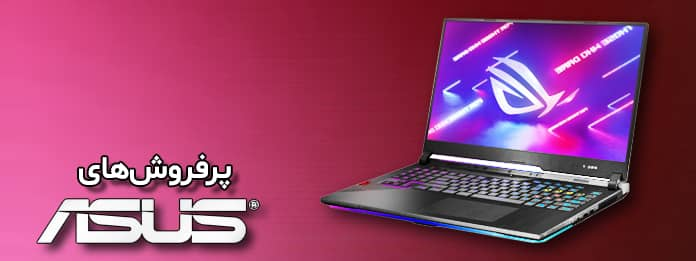
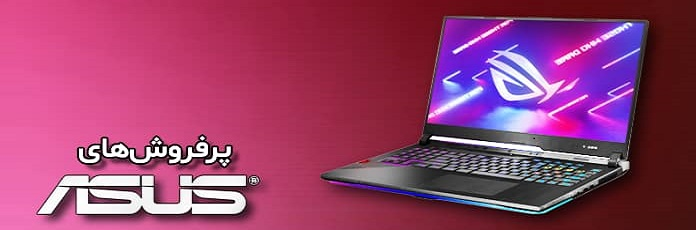
UI

diff --git a/src/components/imageSlider/ImageSlider.js b/src/components/imageSlider/ImageSlider.js
@@ -4,12 +4,14 @@ import lenovo from './../../assets/images/lenovo.jpg'
 import watch from './../../assets/images/watch.jpg'
 import mobile from './../../assets/images/mobile.jpg'
 import Carousel from 'react-bootstrap/Carousel';
+import {useStyles} from './../../styles/imageSlider/style'
 function ImageSlider() {
+  const classes=useStyles()
   return (
-    <Carousel>
+    <Carousel >
     <Carousel.Item>
       <img
-        className="d-block w-100 "
+        className={classes.image}
         src={asus}
       
         alt="First slide"
@@ -18,7 +20,7 @@ function ImageSlider() {
     </Carousel.Item>
     <Carousel.Item>
     <img
-        className="d-block w-100 "
+        className={classes.image}
       
         src={watch}
         alt="Third slide"
@@ -29,7 +31,7 @@ function ImageSlider() {
     </Carousel.Item>
     <Carousel.Item>
     <img
-        className="d-block w-100 "
+        className={classes.image}
     
         src={lenovo}
         alt="Second slide"
@@ -38,7 +40,7 @@ function ImageSlider() {
     </Carousel.Item>
     <Carousel.Item>
       <img
-        className="d-block w-100 "
+        className={classes.image}
       
         src={mobile}
         alt="Third slide"

diff --git a/src/components/category/CategoryProducts.js b/src/components/category/CategoryProducts.js
@@ -30,14 +30,14 @@ function CategoryProducts({id}) {
 
   useEffect(()=>getProducts(page),[getProducts, id, page, search])
   return (
-    <Box style={{display:'flex',flexDirection:'column'}}>
+    <Box style={{display:'flex',flexDirection:'column',alignItems:'center'}}>
     <Grid container>
       {catprdt.map(element=>{return<Grid item  md={6} xs={12} key={element.id} >
         <Card  product={element}/></Grid>})}
       
     </Grid>
      <Pagination  count={Number(Math.ceil(totalCount/4))} page={page} onChange={handleChange}  shape="circular"
-     color='secondary' variant='outlined' />
+     color='secondary' variant='outlined'  />
      </Box>
   )
 }

diff --git a/src/components/navbar/SearchBar.js b/src/components/navbar/SearchBar.js
@@ -5,14 +5,17 @@ import { styled} from '@mui/material/styles';
 import { useNavigate } from 'react-router-dom';
 const Search = styled('div')(({ theme }) => ({
     position: 'relative',
-    borderRadius:'10px',
-    backgroundColor: 'rgb(240,240,241)',
+    display:'flex',
+      justifyContent:'space-between',
+    borderRadius:'20px',
+    backgroundColor: 'rgb(240,239,255)',
     padding: "5px",
     marginLeft: 0,
-    // width: '100%',
-    [theme.breakpoints.up('sm')]: {
+     width: '50%',
+    [theme.breakpoints.down('sm')]: {
       marginLeft: theme.spacing(1),
-      width: 'auto',
+      
+      width: '90%',
       padding:'5px'
     },
   }));

diff --git a/src/components/goodsTable/EditModal.js b/src/components/goodsTable/EditModal.js
@@ -28,11 +28,11 @@ function EditModal({ openedit, handleCloseEdit, product, params }) {
   const dispatch = useDispatch();
   const [image, setImage] = useState(product.image);
   const [thumbnail, setThumbnail] = useState(product.thumbnail);
-  const [src, setSrc] = useState([]);
+  // const [src, setSrc] = useState([]);
   const { categories } = useSelector((state) => state.category);
   // handleUpload functions
   const handleUpload = async (e) => {
-    const selectedFIles = [];
+    // const selectedFIles = [];
     const targetFiles = e.target.files;
 
     // const targetFilesObject = [...targetFiles];

diff --git a/src/pages/home/category.js b/src/pages/home/category.js
@@ -2,13 +2,12 @@ import React from 'react'
 import Sidebar from './../../components/category/Sidebar'
 import CategoryProducts from '../../components/category/CategoryProducts'
 import { useParams } from 'react-router-dom'
-import{useSelector} from 'react-redux'
-import Card from './../../components/category/Card'
-import {Grid} from '@mui/material'
+
+
+
 function Category() {
   const{categoryId}=useParams()
-  const {searchResult,products}=useSelector(state=>state.products)
- console.log(searchResult)
+  
   return (
     
     <div style={{display:'flex',padding:'20px 40px',gap:'100px'}}>

diff --git a/src/pages/home/home.js b/src/pages/home/home.js
@@ -17,14 +17,10 @@ function Home() {
     axios.get(`${URL}/products?category=${id}&_page=1&_limit=6`)
       .then((res) => setProducts(prevState=>[...prevState,...res.data]))
       
-  },[products])
-
-  
+  },[]) 
   useEffect(() => {
-    dispatch(fetchCategory()).unwrap().then(res=>res.map(r=> getData(r.id)))
-    // categories.map(category=>console.log(category))
-    
-  }, []);
+    dispatch(fetchCategory()).unwrap().then(res=>res.map(r=> getData(r.id)))  
+  },[]);
   
   return (loading? <Loading/>
     :<Box 

diff --git a/src/styles/imageSlider/style.js b/src/styles/imageSlider/style.js
@@ -1,0 +1,12 @@
+import { makeStyles } from "@mui/styles";
+export const useStyles = makeStyles((theme) => ({
+    image:{
+        width:'100vw',
+        height:'400px',
+        display:'block',
+        [theme.breakpoints.down('sm')]:{
+            width:'100%',
+            height:'250px'
+        }
+    }
+}))
